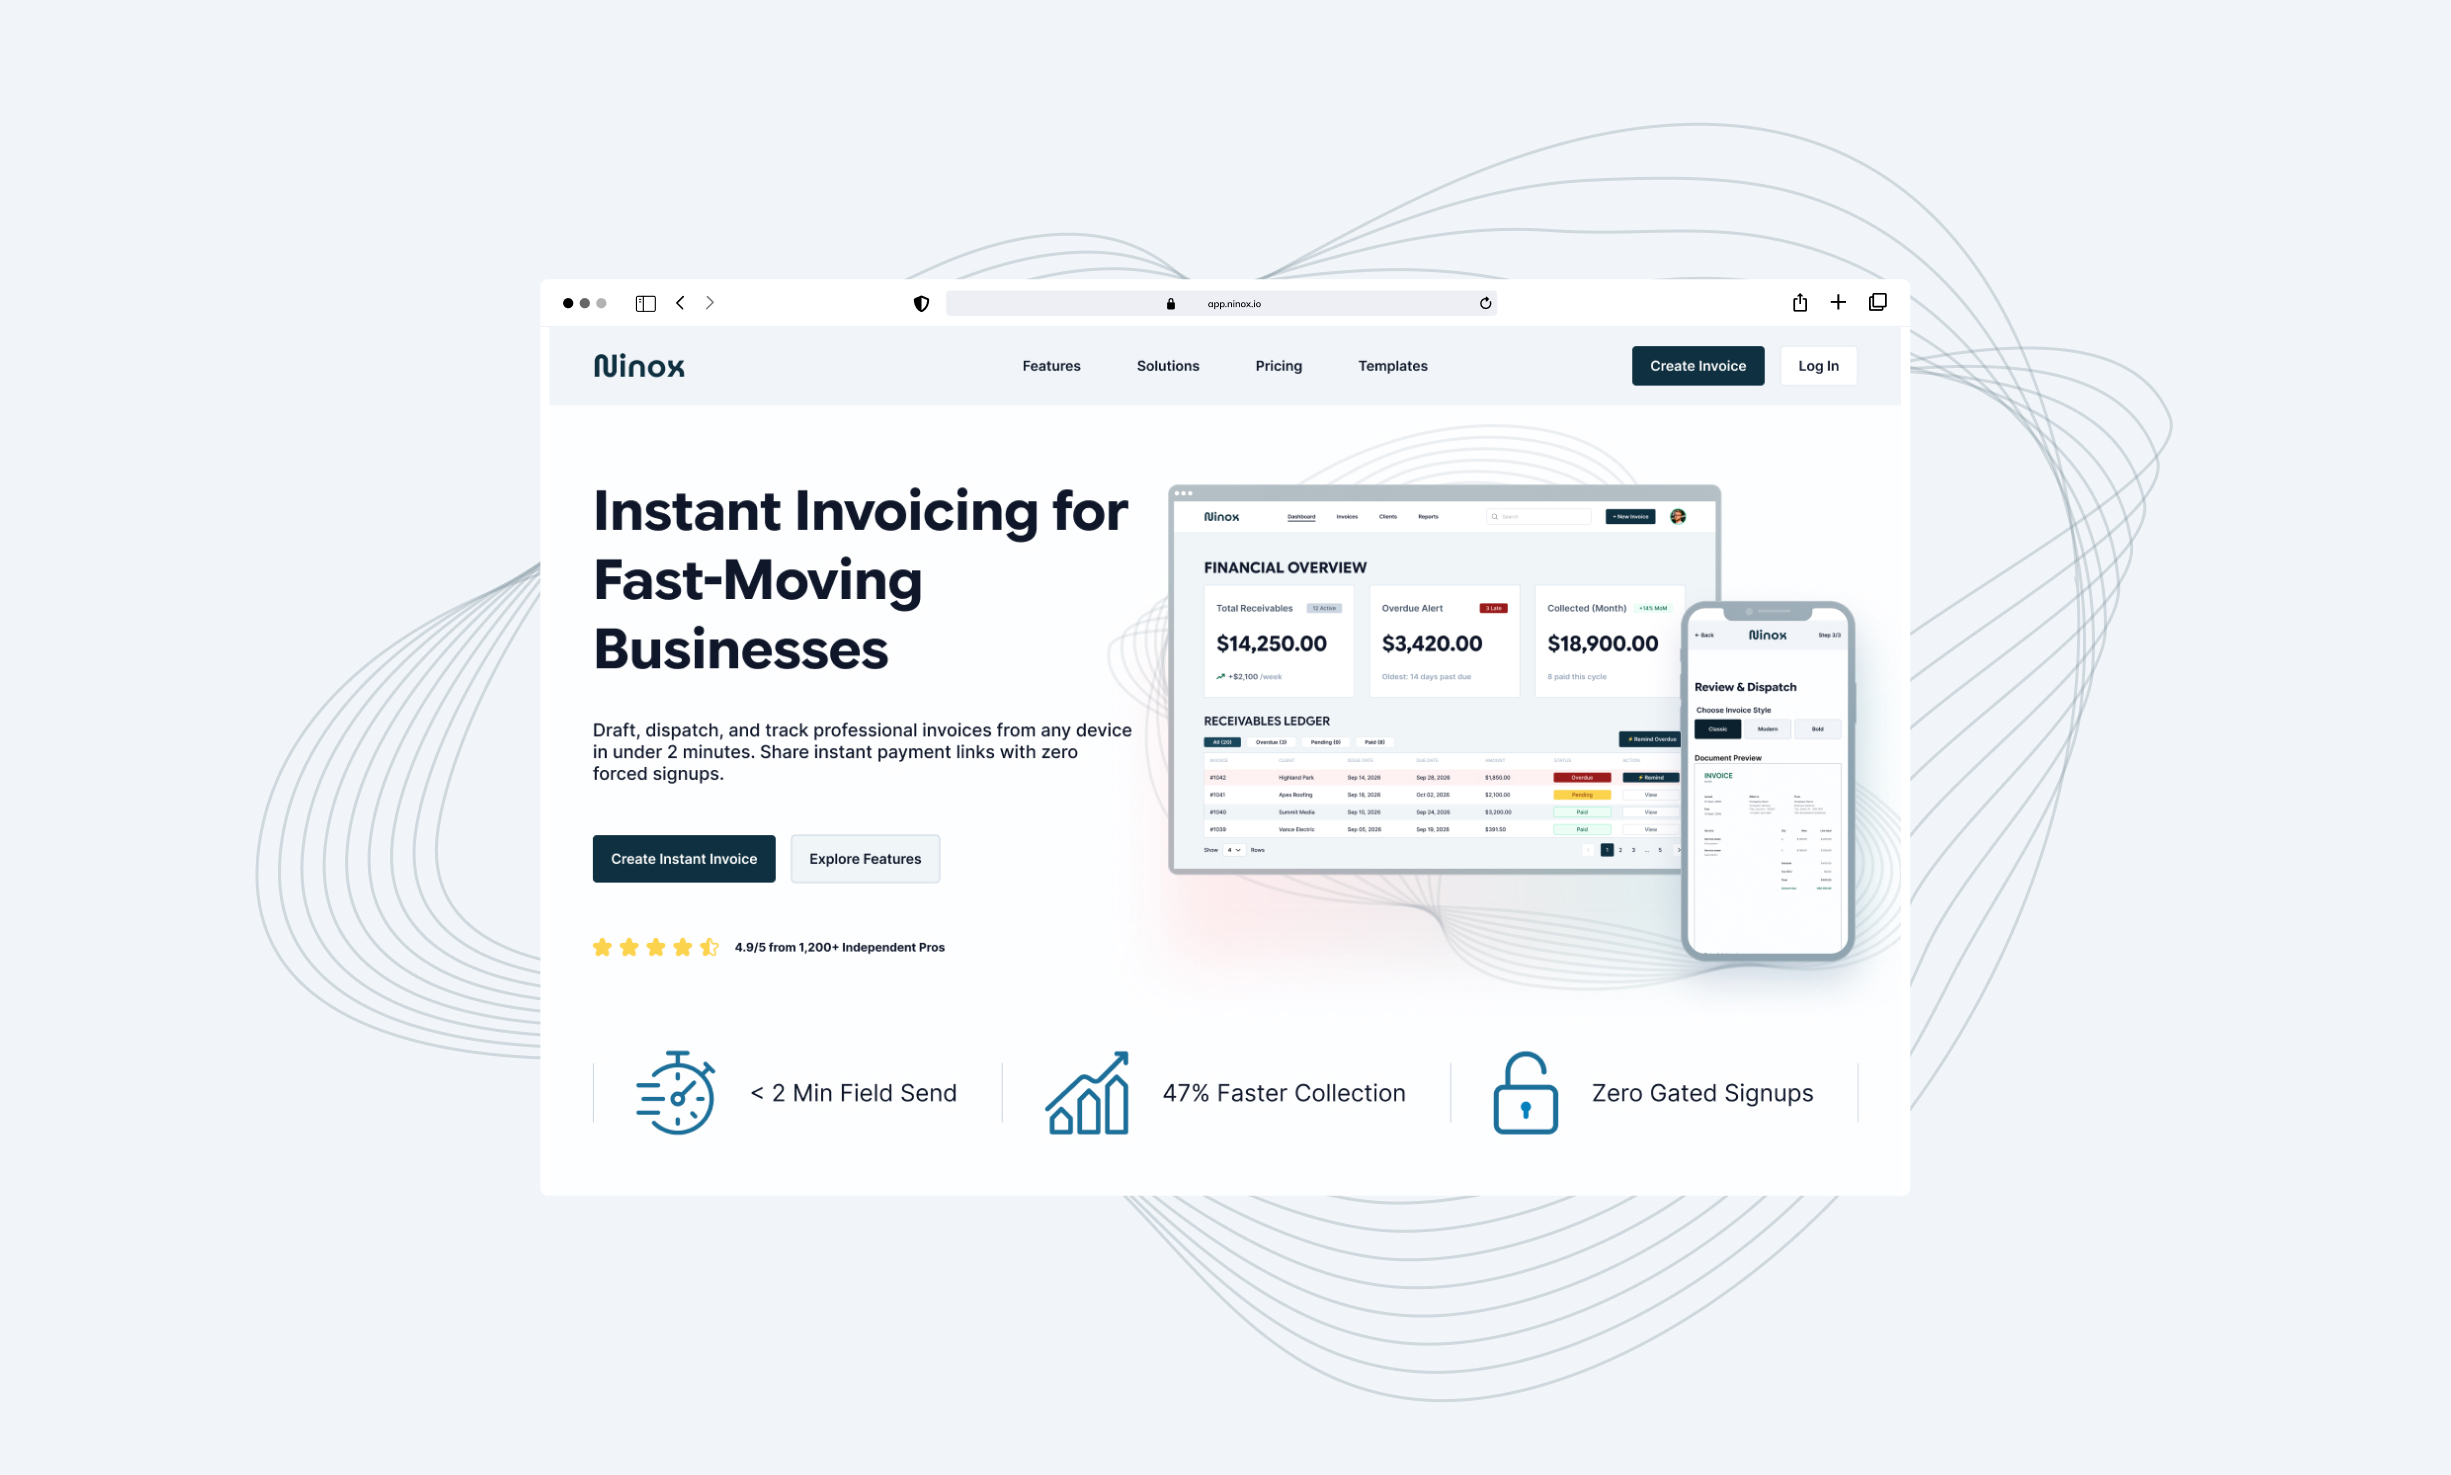
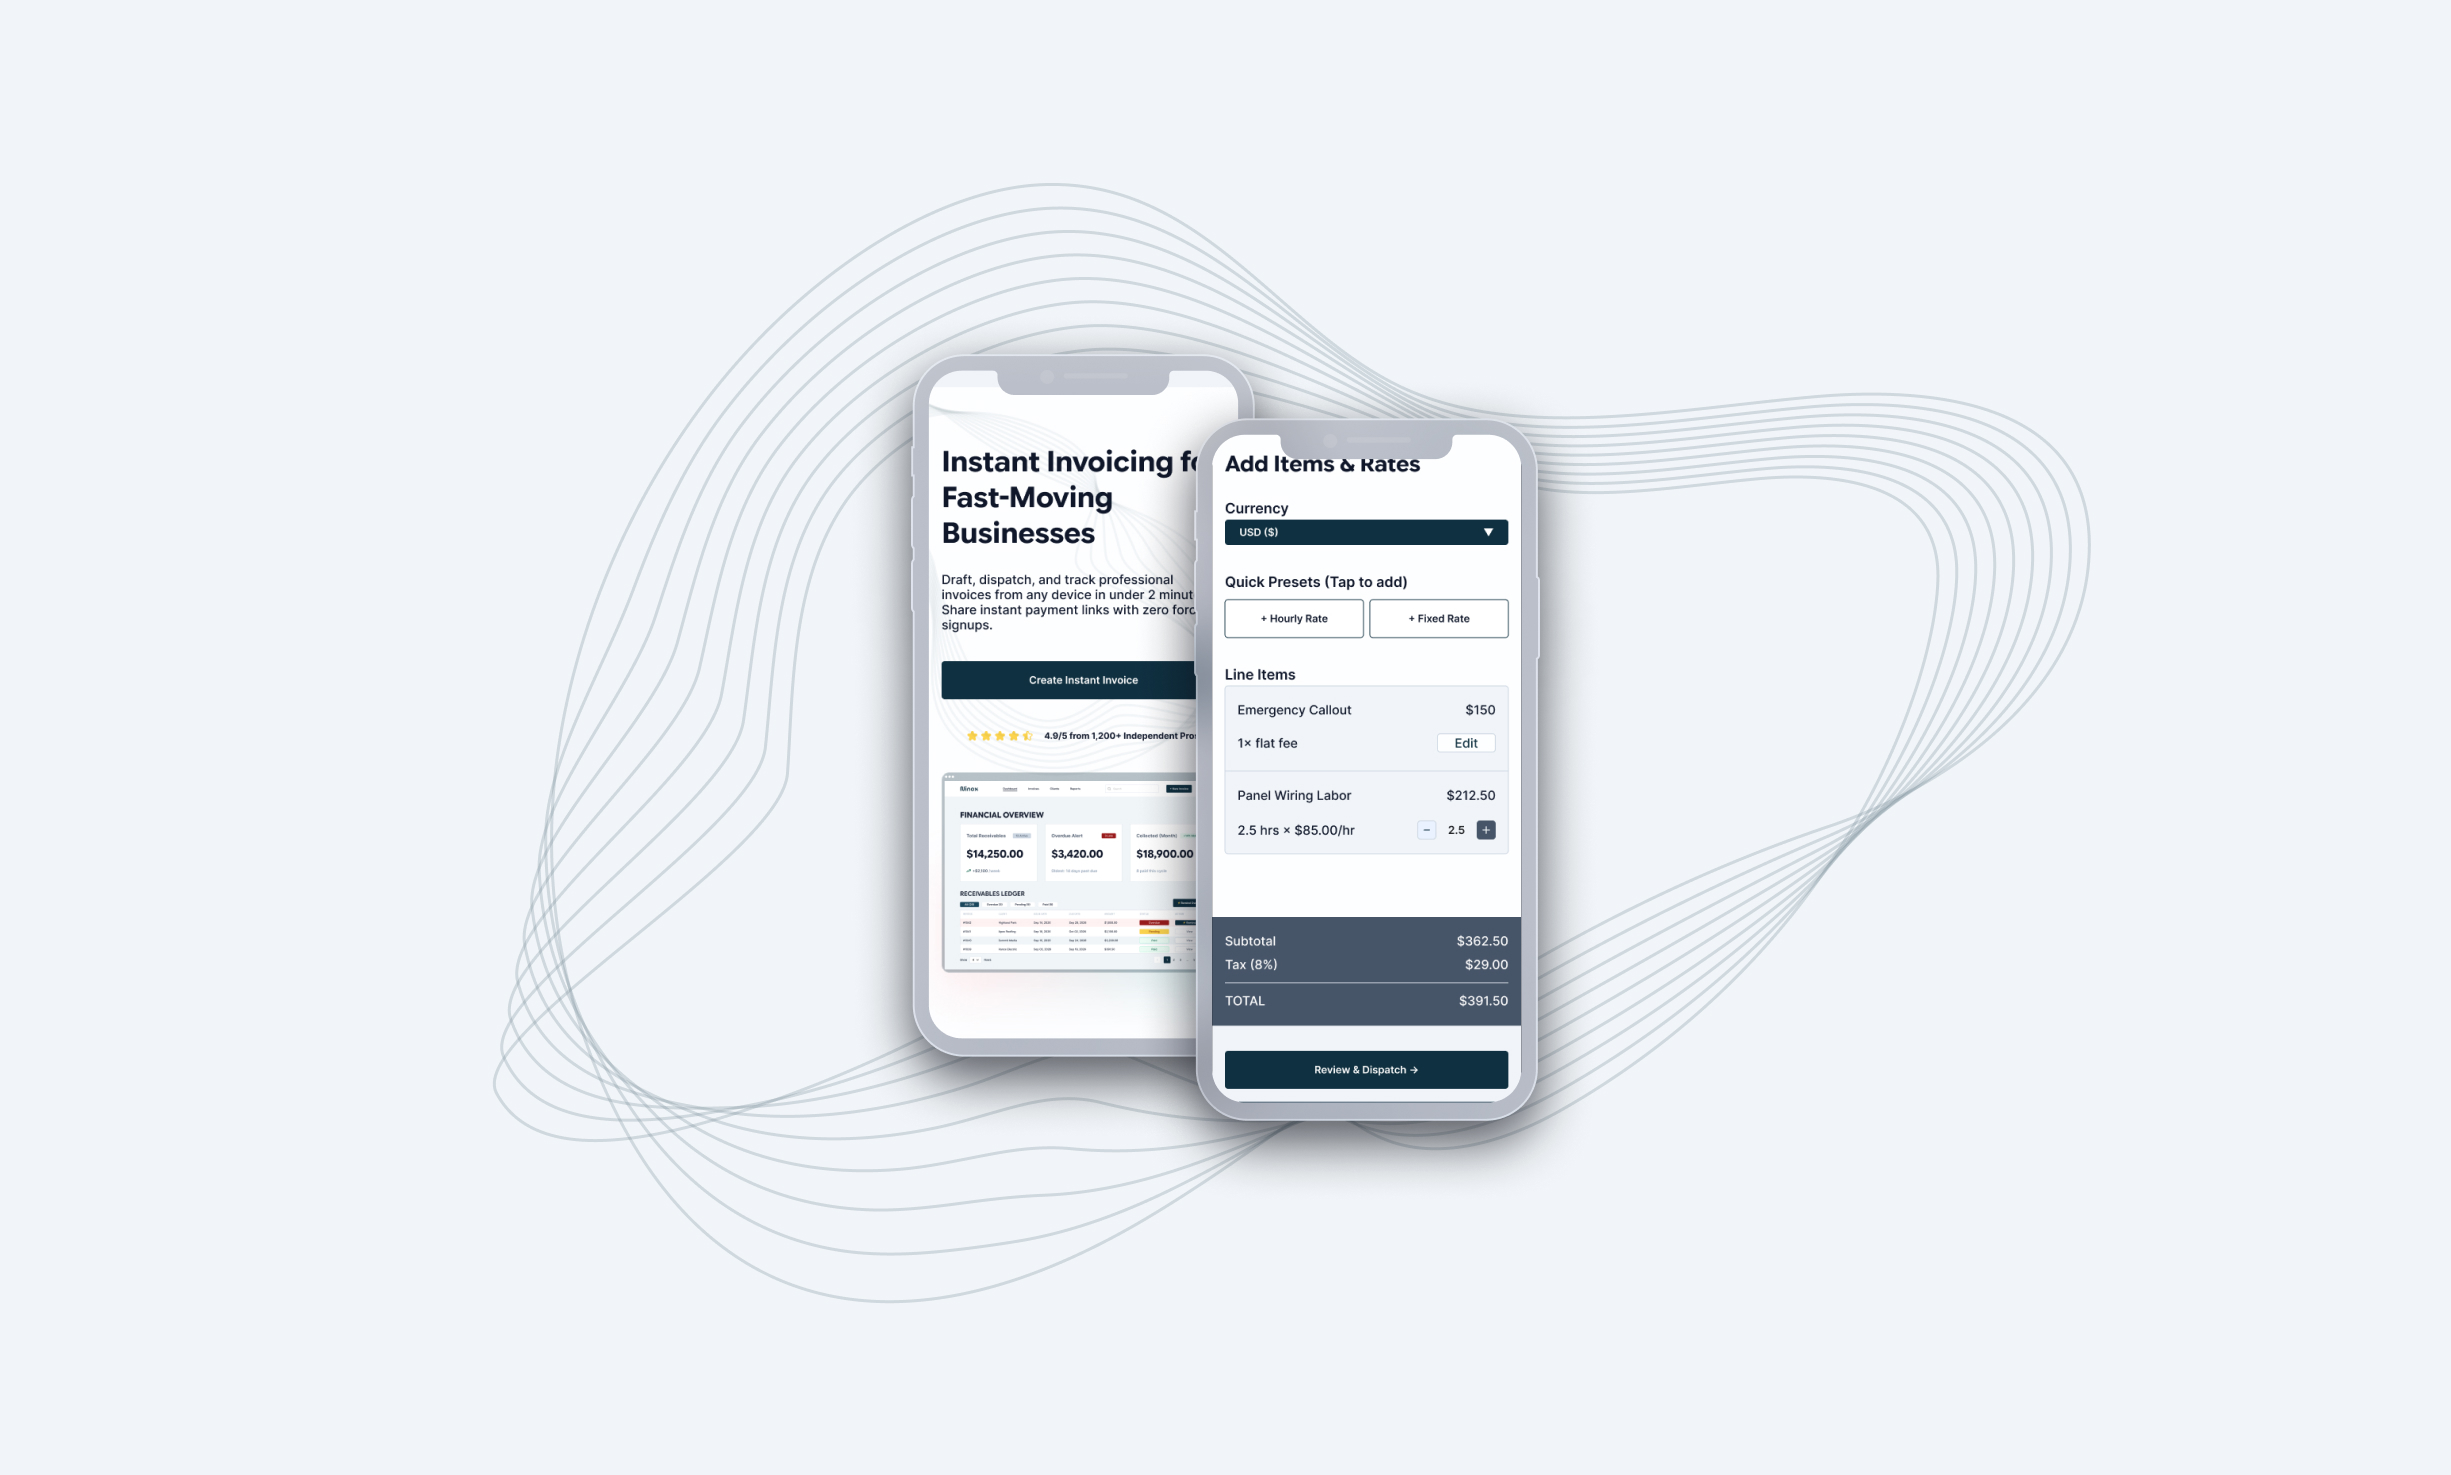
+

diff --git a/src/components/project-details/InvoiceDetails.vue b/src/components/project-details/InvoiceDetails.vue
@@ -323,7 +323,7 @@ function shots(issue: { before: string; after: string }) {
 
         <div class="rounded-sm overflow-hidden bg-brand-primary" style="grid-area: image">
           <img
-            src="/project_img/invoice/Presentation_02.jpg"
+            src="/project_img/invoice/Presentation_01.jpg"
             alt="Project mockup"
             class="w-full h-full object-cover"
           />

diff --git a/src/data/UxResearchData.ts b/src/data/UxResearchData.ts
@@ -4,7 +4,7 @@ export const uxResearchData: Card[] = [
   {
     id: 1,
     slug: 'service-invoicing-tracking',
-    previewImg: '/project_img/invoice/Presentation_01.jpg',
+    previewImg: '/project_img/invoice/Presentation_02.jpg',
     title: 'Ninox - Responsive Invoicing & Payment Platform',
     category: 'Product Design',
   },
